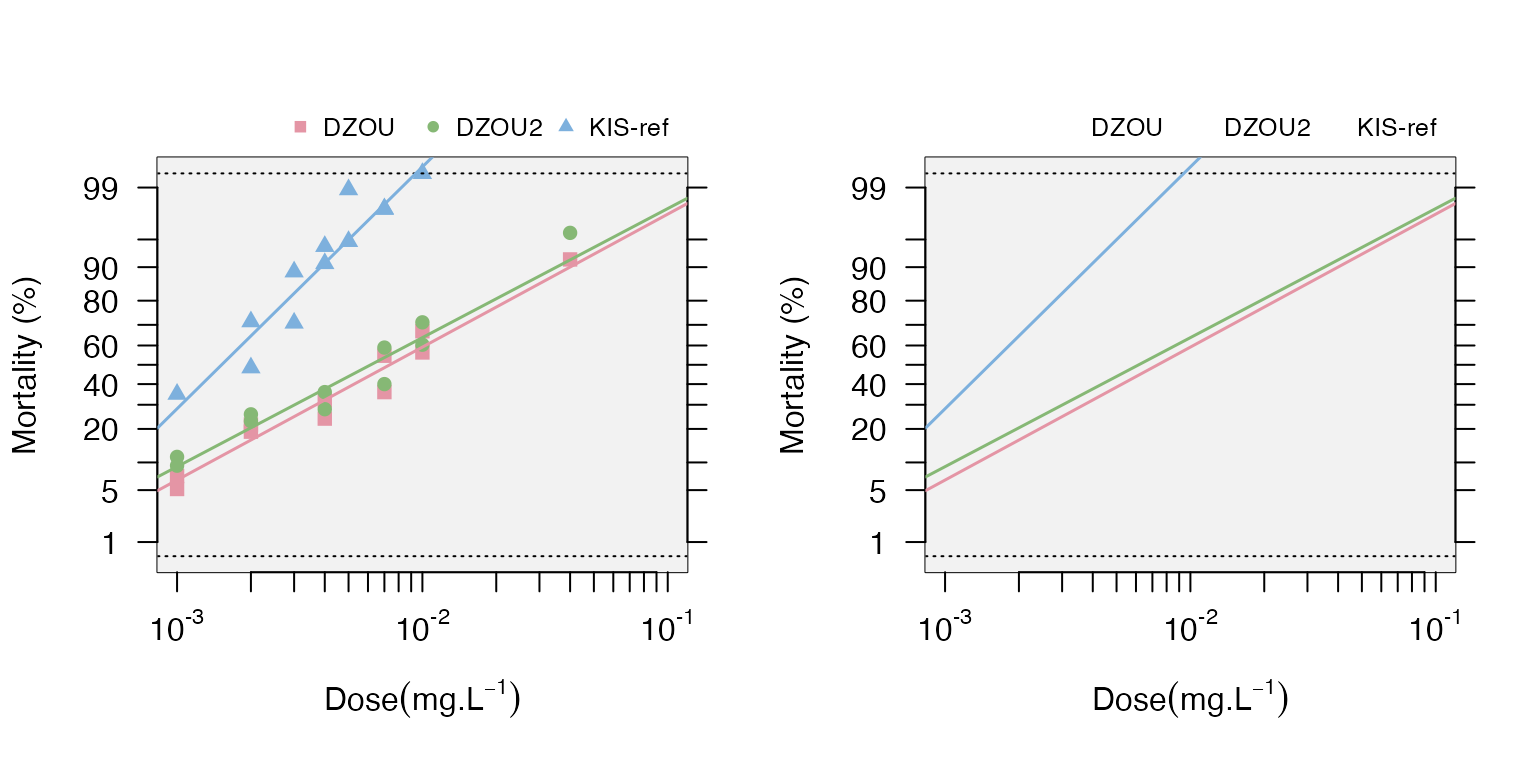
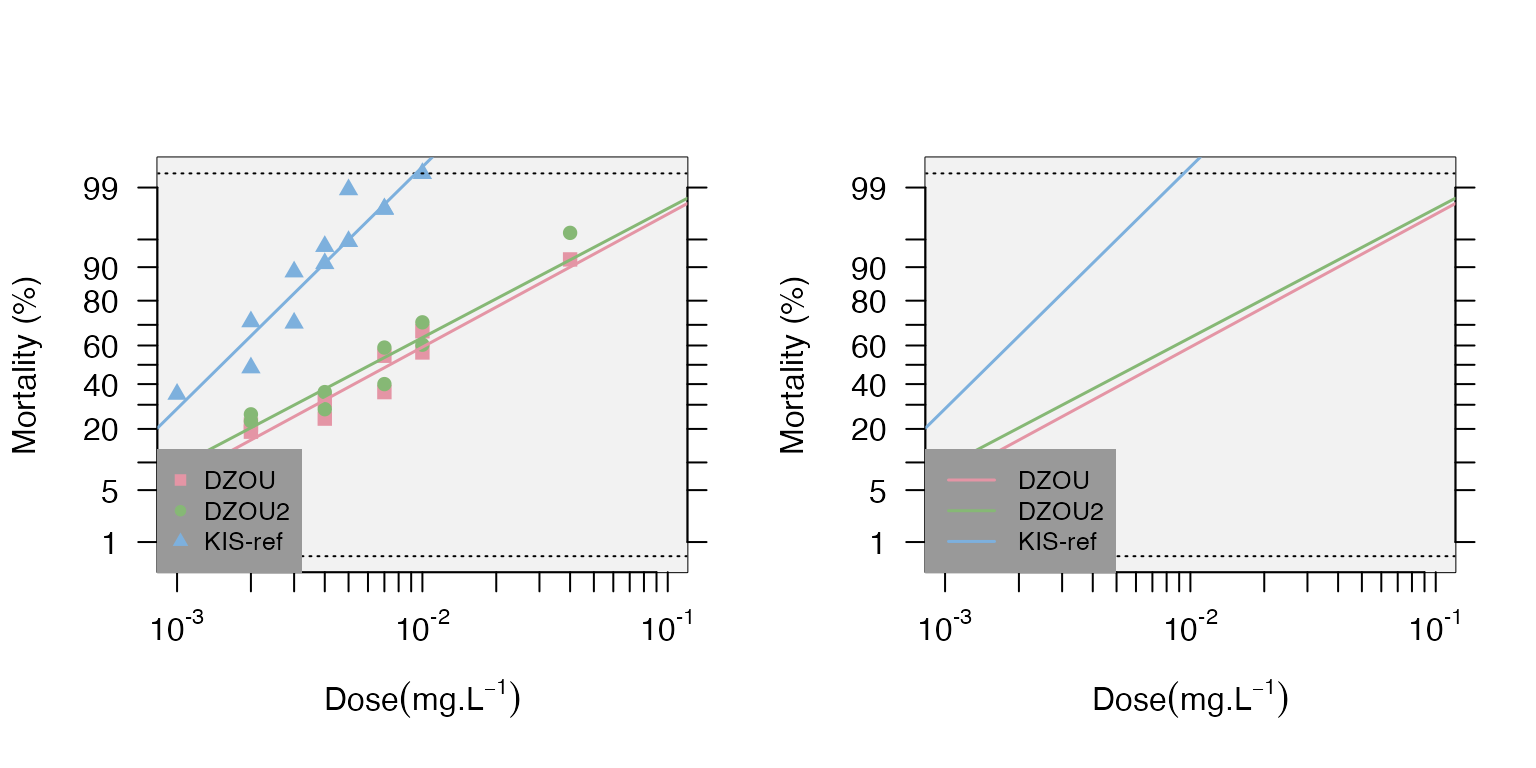
webpage/vignette updated

diff --git a/docs/articles/BioRssay.html b/docs/articles/BioRssay.html
@@ -64,7 +64,7 @@
   <main id="main"><div class="page-header">
       <img src="" class="logo" alt=""><h1>BioRssay</h1>
             
-            <h4 data-toc-skip class="date">27 January, 2022</h4>
+            <h4 data-toc-skip class="date">03 May, 2022</h4>
       
       <small class="dont-index">Source: <a href="https://github.com/milesilab/BioRssay/blob/HEAD/vignettes/BioRssay.Rmd" class="external-link"><code>vignettes/BioRssay.Rmd</code></a></small>
       <div class="d-none name"><code>BioRssay.Rmd</code></div>
@@ -119,7 +119,7 @@
 <span class="co">#&gt; 4  bendiocarb Kisumu 0.00    25    0</span>
 <span class="co">#&gt; 5  bendiocarb Kisumu 0.01    25    0</span>
 <span class="co">#&gt; 6  bendiocarb Kisumu 0.01    25    0</span></code></pre></div>
-<p>NOTE: It is also possible to include a reference strain/population with the suffix “ref” in the strain column (see example 1), or the reference strain can be specified later in the function “resist.ratio” to obtain the resistance ratios for each strain (see below).</p>
+<p>NOTE: It is also possible to include a reference strain/population with the suffix “ref” in the strain column (see example 1), or the reference strain can be specified later in the function <code>resist.ratio</code> to obtain the resistance ratios for each strain (see below).</p>
 </div>
 <div class="section level1">
 <h1 id="analysis">2. <strong>Analysis</strong><a class="anchor" aria-label="anchor" href="#analysis"></a>
@@ -144,7 +144,7 @@
 <span class="fu"><a href="https://rdrr.io/r/base/unique.html" class="external-link">unique</a></span><span class="op">(</span><span class="fu"><a href="https://rdrr.io/r/base/character.html" class="external-link">as.character</a></span><span class="op">(</span><span class="va">exm1</span><span class="op">$</span><span class="va">strain</span><span class="op">)</span><span class="op">)</span>
 <span class="co">#&gt; [1] "KIS-ref" "DZOU"    "DZOU2"</span></code></pre></div>
 <p>This example contains the mortality data of three strains (KIS-ref, DZOU, and DZOU2 ); KIS is used as the reference, as indicated by the “ref” suffix.</p>
-<p>The first step is to check whether the controls have a non-negligible mortality, in which case a correction should be applied to the data, before probit transformation. This is easily achieved with the function “probit.trans”.</p>
+<p>The first step is to check whether the controls have a non-negligible mortality, in which case a correction should be applied to the data, before probit transformation. This is easily achieved with the function <code><a href="../reference/probit.trans.html">probit.trans()</a></code>.</p>
 <div class="sourceCode" id="cb5"><pre class="downlit sourceCode r">
 <code class="sourceCode R"><span class="va">dataT</span><span class="op">&lt;-</span><span class="fu"><a href="../reference/probit.trans.html">probit.trans</a></span><span class="op">(</span><span class="va">exm1</span><span class="op">)</span> <span class="co">#additionally an acceptable threshold for controls' mortality can be set as desired with "conf="; default is 0.05.</span>
 <span class="va">dataT</span><span class="op">$</span><span class="va">convrg</span>
@@ -157,10 +157,10 @@
 <span class="co">#&gt; 5    temephos KIS-ref 0.005    95   90         1 26/01/11 0.9473684  1.6198563</span>
 <span class="co">#&gt; 6    temephos KIS-ref 0.007    99   97         1 26/01/11 0.9797980  2.0495943</span>
 <span class="co">#&gt; 7    temephos KIS-ref 0.010    99   99         1 26/01/11 0.9940000  2.5121443</span></code></pre></div>
-<p>The output of probit.trans is a list of which the first element (convrg) contains the results of Abott’s correction and convergence values.</p>
-<p>However, since the mortality in the controls (dose=0) is below 5% (conf=0.05) in the present example, data$convrg is NULL and thus no correction is applied to the data . The second element of the list dataT is the probid transformed data with two additional columns: <em>mort</em>, the observed mortalities, and <em>probmort</em>, the observed probit-transformed mortalities. This data frame is what we’ll use in the next steps of the analysis.</p>
+<p>The output of probit.trans is a list of which the first element (<code>convrg</code>) contains the results of Abott’s correction and convergence values.</p>
+<p>However, since the mortality in the controls (dose=0) is below 5% (<code>conf=0.05</code>) in the present example, <code>data$convrg</code> is NULL and thus no correction is applied to the data . The second element of the list dataT is the probid transformed data with two additional columns: <em>mort</em>, the observed mortalities, and <em>probmort</em>, the observed probit-transformed mortalities. This data frame is what we’ll use in the next steps of the analysis.</p>
 <p><em>If you set the threshold to conf=0.01 with example 1, you can assess the effects of the Abbot’s correction: all mortalities are slightly reduced to take the base control mortality into account.</em></p>
-<p>The second step is to compute the lethal dose values (25%, 50% and 95%, LD25, LD50 and LD95 respectively) and the corresponding resistance ratios. The function “resist.ratio” allows you to do just that (user also has the option to calculate these values for different LD values). If no reference strain has been specified in the data file (using the suffix “ref” as mentioned above), it can be specified in “ref.strain=”. Otherwise, the strain with the lowest LD50 will be considered as such. By default, the LDs’ 95% confidence intervals are computed (the min and max values are reported); you can adjust this using “conf.level=”.</p>
+<p>The second step is to compute the lethal dose values (25%, 50% and 95%, LD25, LD50 and LD95 respectively) and the corresponding resistance ratios. The function <code>resist.ratio</code> allows you to do just that (user also has the option to calculate these values for different LD values). If no reference strain has been specified in the data file (using the suffix “ref” as mentioned above), it can be specified in <code>ref.strain=</code>. Otherwise, the strain with the lowest LD50 will be considered as such. By default, the LDs’ 95% confidence intervals are computed (the min and max values are reported); you can adjust this using <code>conf.level=</code>.</p>
 <div class="sourceCode" id="cb6"><pre class="downlit sourceCode r">
 <code class="sourceCode R"><span class="va">data</span><span class="op">&lt;-</span><span class="va">dataT</span><span class="op">$</span><span class="va">tr.data</span> <span class="co">#probid transformed data</span>
 <span class="va">RR</span><span class="op">&lt;-</span><span class="fu"><a href="../reference/resist.ratio.html">resist.ratio</a></span><span class="op">(</span><span class="va">data</span><span class="op">)</span>
@@ -179,8 +179,8 @@
 <span class="co">#&gt; KIS-ref  0.7947    1.26 1.00  0.8488    1.18    1  0.8085    1.24</span></code></pre></div>
 <p>Note that we did not specify the reference strain here as it is already labeled in the data</p>
 <p>For each strain, you have first the LD25, LD50 and LD95 and their upper and lower limits (defaults is 95% CI), then the slope and intercept of the regression (with their standard error), the heterogeneity (h) and the g factor (“With almost all good sets of data, g will be substantially smaller than 1.0 and seldom greater than 0.4.” Finney, 1971).</p>
-<p>The result of the chi test (Chi(p)) is then indicated to judge whether the data follow a linear regression: here all the p-values are over 0.05 so the fits are acceptable. Finally the resistance ratios are indicated for LD25, LD50 and LD95 (RR25, RR50 and RR95), as well as their upper and lower limits.</p>
-<p>The third step, when analysing more than one strain, is now to test for difference in dose-mortality responses between strains using the “model.signif” function.</p>
+<p>The result of the chi test (<code>Chi(p)</code>) is then indicated to judge whether the data follow a linear regression: here all the p-values are over 0.05 so the fits are acceptable. Finally the resistance ratios are indicated for LD25, LD50 and LD95 (RR25, RR50 and RR95), as well as their upper and lower limits.</p>
+<p>The third step, when analysing more than one strain, is now to test for difference in dose-mortality responses between strains using the <code><a href="../reference/model.signif.html">model.signif()</a></code> function.</p>
 <div class="sourceCode" id="cb7"><pre class="downlit sourceCode r">
 <code class="sourceCode R"><span class="fu"><a href="../reference/model.signif.html">model.signif</a></span><span class="op">(</span><span class="va">dataT</span><span class="op">$</span><span class="va">tr.data</span><span class="op">)</span>
 <span class="co">#&gt; Analysis of Deviance Table</span>
@@ -195,13 +195,19 @@
 <span class="co">#&gt; complete model is significant against a NULL model </span>
 <span class="co">#&gt;  continueing to pair-wise comparison</span>
 <span class="co">#&gt; $model</span>
-<span class="co">#&gt;   strain1 strain2 model.pval  deviance df bonferroni</span>
-<span class="co">#&gt; 1    DZOU   DZOU2    0.26402   5.52848  2    non-sig</span>
-<span class="co">#&gt; 2    DZOU KIS-ref          0 714.37345  2        sig</span>
-<span class="co">#&gt; 3   DZOU2 KIS-ref          0 603.93126  2        sig</span></code></pre></div>
+<span class="co">#&gt;   strain1 strain2 model.pval bonferroni res.Dv.Null res.Dv.str res.Dv.int</span>
+<span class="co">#&gt; 1    DZOU   DZOU2    0.26402    non-sig          NA         NA         NA</span>
+<span class="co">#&gt; 2    DZOU KIS-ref          0        sig     1150.41     87.892     49.747</span>
+<span class="co">#&gt; 3   DZOU2 KIS-ref          0        sig     1064.79     95.043     53.537</span>
+<span class="co">#&gt;   str.pval str.thr int.pval int.thr</span>
+<span class="co">#&gt; 1       NA      NA       NA      NA</span>
+<span class="co">#&gt; 2        0 0.01250    0.001   0.025</span>
+<span class="co">#&gt; 3        0 0.01667    0.001   0.050</span></code></pre></div>
 <p>As there are 3 strains, the function first tests whether all strains are similar (i.e. equivalent to 1 strain) or not (i.e. at least one is different from others), using a likelihood ratio test. Here, the test is highly significant, some strains are thus different in terms of dose response.</p>
-<p>Pairwise tests are then performed and reported below. Here, the KIS strain is different from DZOU and from DZOU2 strains (model.pval &lt;0.05). DZOU and DZOU2 are not different (model.pval &gt;0.05). The bonferroni column indicates whether the p-values &lt;0.05 remain significant (sig vs non-sig) after correction for multiple testing.</p>
-<p><strong><em>Data Visualization</em></strong> The data and the regression can be plotted with confidence levels using the “mort.plot” function. It is also possible to take the validity of the linearity test into account for the plots using the “test.validity=” option. The probit-transformed mortalities [probit.trans() function] are plotted as a function of the log10 of the doses.</p>
+<p>Pairwise tests are then performed and reported below. Here, the KIS strain is different from DZOU and from DZOU2 strains (model.pval &lt;0.05). DZOU and DZOU2 are not different (model.pval &gt;0.05). The <code>bonferroni</code> column indicates whether the p-values &lt;0.05 remain significant (sig vs non-sig) after correction for multiple testing.</p>
+<p>Further, the function outputs seven more columns with statistical outputs from the model evaluation between strains and strain-dose to a null model. The abbreviations are as follows:<br><code>res.Dv</code> - residual deviance<br><code>thr</code> - threshold for the significance of the pvalue<br><code>str</code> - values for the strains<br><code>int</code> - values for the interaction between the strain and the dose</p>
+<p><em>Note: the pvalues for strain and strain-dose interaction is from a F-test for a bionomial model.</em></p>
+<p><strong><em>Data Visualization</em></strong> The data and the regression can be plotted with confidence levels using the <code><a href="../reference/mort.plot.html">mort.plot()</a></code> function. It is also possible to take the validity of the linearity test into account for the plots using the <code>test.validity=</code> option. The probit-transformed mortalities (<code><a href="../reference/probit.trans.html">probit.trans()</a></code> function) are plotted as a function of the log10 of the doses.</p>
 <div class="sourceCode" id="cb8"><pre class="downlit sourceCode r">
 <code class="sourceCode R"><span class="co">#strains&lt;-levels(data$strain)</span>
 <span class="fu"><a href="https://rdrr.io/r/graphics/par.html" class="external-link">par</a></span><span class="op">(</span>mfrow<span class="op">=</span><span class="fu"><a href="https://rdrr.io/r/base/c.html" class="external-link">c</a></span><span class="op">(</span><span class="fl">1</span>,<span class="fl">2</span><span class="op">)</span><span class="op">)</span> <span class="co"># set plot rows</span>
@@ -215,14 +221,14 @@
 <span class="fu"><a href="https://rdrr.io/r/graphics/par.html" class="external-link">par</a></span><span class="op">(</span>mfrow<span class="op">=</span><span class="fu"><a href="https://rdrr.io/r/base/c.html" class="external-link">c</a></span><span class="op">(</span><span class="fl">1</span>,<span class="fl">2</span><span class="op">)</span><span class="op">)</span>
 <span class="fu"><a href="../reference/mort.plot.html">mort.plot</a></span><span class="op">(</span><span class="va">data</span>,plot.conf<span class="op">=</span><span class="cn">TRUE</span>,test.validity<span class="op">=</span><span class="cn">FALSE</span><span class="op">)</span>
 <span class="fu"><a href="../reference/mort.plot.html">mort.plot</a></span><span class="op">(</span><span class="va">data</span>,plot.conf<span class="op">=</span><span class="cn">TRUE</span>,test.validity<span class="op">=</span><span class="cn">FALSE</span>,pch<span class="op">=</span><span class="cn">NA</span><span class="op">)</span></code></pre></div>
-<p><img src="BioRssay_files/figure-html/unnamed-chunk-8-2.png" width="768"> It is also possible to plot different confidence intervals with the “conf.level=” option (the default is 0.95). It is possible to plot only a subset of strains using the “strains=” option to list the desired strains; if not provided, all the strains will be plotted.</p>
-<p>Note that the plots can be generated directly from the “resist.ratio” function using the “plot=T” option.</p>
+<p><img src="BioRssay_files/figure-html/unnamed-chunk-8-2.png" width="768"> It is also possible to plot different confidence intervals with the <code>conf.level=</code> option (the default is 0.95). It is possible to plot only a subset of strains using the <code>strains=</code> option to list the desired strains; if not provided, all the strains will be plotted.</p>
+<p>Note that the plots can be generated directly from the “resist.ratio” function using the <code>plot=TRUE</code> option.</p>
 </div>
 <div class="section level2">
 <h2 id="example-2">
 <strong>Example 2</strong><a class="anchor" aria-label="anchor" href="#example-2"></a>
 </h2>
-<p>We follow the same workflow (using the plot option in “resist.ratio”). However, there are more than one insecticide tested in this experiment. Therefore, we need to subset the data for each insecticide, and carry out the analysis as before.</p>
+<p>We follow the same workflow (using the plot option in <code><a href="../reference/resist.ratio.html">resist.ratio()</a></code>). However, there are more than one insecticide tested in this experiment. Therefore, we need to subset the data for each insecticide, and carry out the analysis as before.</p>
 <div class="sourceCode" id="cb10"><pre class="downlit sourceCode r">
 <code class="sourceCode R"><span class="fu"><a href="https://rdrr.io/r/utils/head.html" class="external-link">head</a></span><span class="op">(</span><span class="va">test</span><span class="op">)</span>
 <span class="co">#&gt;   insecticide strain dose total dead</span>
@@ -264,7 +270,7 @@
 <span class="co">#&gt; Acerkis  86.0000  442.00  207 103.0000   418.0  241 43.0000    1360</span>
 <span class="co">#&gt; AgRR5   131.0000  666.00  290 144.0000   583.0  277 49.0000    1560</span>
 <span class="co">#&gt; Kisumu    0.3352    2.98    1   0.3849     2.6    1  0.0884      11</span></code></pre></div>
-<p>Note that we have enabled the arguments “plot=” with “plot.conf=” and “test.validity=”. When the log-dose-response is not linear for a strain (Chi-square p-value &lt; 0.05), it will be plotted without forcing linearity as for “Acerkis or AgRR5” strains in this example.</p>
+<p>Note that we have enabled the arguments “plot=” with “plot.conf=” and <code>test.validity=</code>. When the log-dose-response is not linear for a strain (Chi-square p-value &lt; 0.05), it will be plotted without forcing linearity as for “Acerkis or AgRR5” strains in this example.</p>
 <div class="sourceCode" id="cb13"><pre class="downlit sourceCode r">
 <code class="sourceCode R"><span class="co">#To then test the difference in dose-mortality response between the strains</span>
 <span class="va">t.models</span><span class="op">&lt;-</span><span class="fu"><a href="../reference/model.signif.html">model.signif</a></span><span class="op">(</span><span class="va">data.b</span><span class="op">)</span>
@@ -281,10 +287,14 @@
 <span class="co">#&gt;  continueing to pair-wise comparison</span>
 <span class="va">t.models</span>
 <span class="co">#&gt; $model</span>
-<span class="co">#&gt;   strain1 strain2 model.pval   deviance df bonferroni</span>
-<span class="co">#&gt; 1 Acerkis   AgRR5          0   93.37051  2        sig</span>
-<span class="co">#&gt; 2 Acerkis  Kisumu          0 1220.98743  2        sig</span>
-<span class="co">#&gt; 3   AgRR5  Kisumu          0 1433.09904  2        sig</span></code></pre></div>
+<span class="co">#&gt;   strain1 strain2 model.pval bonferroni res.Dv.Null res.Dv.str res.Dv.int</span>
+<span class="co">#&gt; 1 Acerkis   AgRR5          0        sig     1437.16     94.149     76.989</span>
+<span class="co">#&gt; 2 Acerkis  Kisumu          0        sig     1824.23     66.860     59.425</span>
+<span class="co">#&gt; 3   AgRR5  Kisumu          0        sig     1822.46     80.266     79.193</span>
+<span class="co">#&gt;   str.pval str.thr int.pval int.thr</span>
+<span class="co">#&gt; 1        0 0.00833    0.000 0.01667</span>
+<span class="co">#&gt; 2        0 0.01000    0.145 0.02500</span>
+<span class="co">#&gt; 3        0 0.01250    0.594 0.05000</span></code></pre></div>
 <p>Note that at least one of the strains failed the linearity test, the validity of the pairwise dose-mortality response test is, at best, highly questionable. We do not recommend it.</p>
 <p>If many strains are present and only one (few) fails the linearity tests, we do recommend users to remove specific strains from the analyses.</p>
 <p>These steps can be repeated for the different insecticides, either one by one or or in a loop (e.g. “for” loop function).</p>
@@ -310,6 +320,7 @@
 <span class="co">#&gt; KIS     1.23</span>
 <span class="fu"><a href="../reference/model.signif.html">model.signif</a></span><span class="op">(</span><span class="va">trnd</span><span class="op">$</span><span class="va">tr.data</span><span class="op">)</span> <span class="co"># test the models significance for each strain</span>
 <span class="co">#&gt; $model</span>
+<span class="co">#&gt; $model$pairT</span>
 <span class="co">#&gt; Analysis of Deviance Table</span>
 <span class="co">#&gt; </span>
 <span class="co">#&gt; Model 1: mortality ~ log10(data$dose)</span>
@@ -318,7 +329,19 @@
 <span class="co">#&gt; 1        30     703.60                          </span>
 <span class="co">#&gt; 2        28     164.17  2   539.43 &lt; 2.2e-16 ***</span>
 <span class="co">#&gt; ---</span>
-<span class="co">#&gt; Signif. codes:  0 '***' 0.001 '**' 0.01 '*' 0.05 '.' 0.1 ' ' 1</span></code></pre>
+<span class="co">#&gt; Signif. codes:  0 '***' 0.001 '**' 0.01 '*' 0.05 '.' 0.1 ' ' 1</span>
+<span class="co">#&gt; </span>
+<span class="co">#&gt; $model$fullM</span>
+<span class="co">#&gt;                              Df  Deviance Resid. Df Resid. Dev         F</span>
+<span class="co">#&gt; NULL                         NA        NA        31  1839.6531        NA</span>
+<span class="co">#&gt; log10(data$dose)              1 1136.0509        30   703.6021 225.62945</span>
+<span class="co">#&gt; data$strain                   1  404.0593        29   299.5428  80.24964</span>
+<span class="co">#&gt; log10(data$dose):data$strain  1  135.3709        28   164.1719  26.88581</span>
+<span class="co">#&gt;                                    Pr(&gt;F)</span>
+<span class="co">#&gt; NULL                                   NA</span>
+<span class="co">#&gt; log10(data$dose)             6.302655e-15</span>
+<span class="co">#&gt; data$strain                  1.029903e-09</span>
+<span class="co">#&gt; log10(data$dose):data$strain 1.671886e-05</span></code></pre>
 </div>
 </div>
 <div class="section level1">

diff --git a/docs/reference/resist.ratio.html b/docs/reference/resist.ratio.html
@@ -1,5 +1,5 @@
 <!DOCTYPE html>
-<!-- Generated by pkgdown: do not edit by hand --><html lang="en"><head><meta http-equiv="Content-Type" content="text/html; charset=UTF-8"><meta charset="utf-8"><meta http-equiv="X-UA-Compatible" content="IE=edge"><meta name="viewport" content="width=device-width, initial-scale=1, shrink-to-fit=no"><meta name="description" content="Using a generalised linear model (GLM, logit link function), this function computes the lethal doses for 25%, 50% and 95% (unless otherwise provided) of the population (LD25, LD50 and LD95, resp.), and their confidence intervals (LDmax and LDmin, 0.95 by default). See details for more info."><title>Calculate lethal dosage, resistance ratios, and regression coefficients and tests for linearity — resist.ratio • BioRssay</title><script src="../deps/jquery-3.6.0/jquery-3.6.0.min.js"></script><meta name="viewport" content="width=device-width, initial-scale=1, shrink-to-fit=no"><link href="../deps/bootstrap-5.1.0/bootstrap.min.css" rel="stylesheet"><script src="../deps/bootstrap-5.1.0/bootstrap.bundle.min.js"></script><!-- Font Awesome icons --><link rel="stylesheet" href="https://cdnjs.cloudflare.com/ajax/libs/font-awesome/5.12.1/css/all.min.css" integrity="sha256-mmgLkCYLUQbXn0B1SRqzHar6dCnv9oZFPEC1g1cwlkk=" crossorigin="anonymous"><link rel="stylesheet" href="https://cdnjs.cloudflare.com/ajax/libs/font-awesome/5.12.1/css/v4-shims.min.css" integrity="sha256-wZjR52fzng1pJHwx4aV2AO3yyTOXrcDW7jBpJtTwVxw=" crossorigin="anonymous"><!-- bootstrap-toc --><script src="https://cdn.rawgit.com/afeld/bootstrap-toc/v1.0.1/dist/bootstrap-toc.min.js"></script><!-- headroom.js --><script src="https://cdnjs.cloudflare.com/ajax/libs/headroom/0.11.0/headroom.min.js" integrity="sha256-AsUX4SJE1+yuDu5+mAVzJbuYNPHj/WroHuZ8Ir/CkE0=" crossorigin="anonymous"></script><script src="https://cdnjs.cloudflare.com/ajax/libs/headroom/0.11.0/jQuery.headroom.min.js" integrity="sha256-ZX/yNShbjqsohH1k95liqY9Gd8uOiE1S4vZc+9KQ1K4=" crossorigin="anonymous"></script><!-- clipboard.js --><script src="https://cdnjs.cloudflare.com/ajax/libs/clipboard.js/2.0.6/clipboard.min.js" integrity="sha256-inc5kl9MA1hkeYUt+EC3BhlIgyp/2jDIyBLS6k3UxPI=" crossorigin="anonymous"></script><!-- search --><script src="https://cdnjs.cloudflare.com/ajax/libs/fuse.js/6.4.6/fuse.js" integrity="sha512-zv6Ywkjyktsohkbp9bb45V6tEMoWhzFzXis+LrMehmJZZSys19Yxf1dopHx7WzIKxr5tK2dVcYmaCk2uqdjF4A==" crossorigin="anonymous"></script><script src="https://cdnjs.cloudflare.com/ajax/libs/autocomplete.js/0.38.0/autocomplete.jquery.min.js" integrity="sha512-GU9ayf+66Xx2TmpxqJpliWbT5PiGYxpaG8rfnBEk1LL8l1KGkRShhngwdXK1UgqhAzWpZHSiYPc09/NwDQIGyg==" crossorigin="anonymous"></script><script src="https://cdnjs.cloudflare.com/ajax/libs/mark.js/8.11.1/mark.min.js" integrity="sha512-5CYOlHXGh6QpOFA/TeTylKLWfB3ftPsde7AnmhuitiTX4K5SqCLBeKro6sPS8ilsz1Q4NRx3v8Ko2IBiszzdww==" crossorigin="anonymous"></script><!-- pkgdown --><script src="../pkgdown.js"></script><meta property="og:title" content="Calculate lethal dosage, resistance ratios, and regression coefficients and tests for linearity — resist.ratio"><meta property="og:description" content="Using a generalised linear model (GLM, logit link function), this function computes the lethal doses for 25%, 50% and 95% (unless otherwise provided) of the population (LD25, LD50 and LD95, resp.), and their confidence intervals (LDmax and LDmin, 0.95 by default). See details for more info."><!-- mathjax --><script src="https://cdnjs.cloudflare.com/ajax/libs/mathjax/2.7.5/MathJax.js" integrity="sha256-nvJJv9wWKEm88qvoQl9ekL2J+k/RWIsaSScxxlsrv8k=" crossorigin="anonymous"></script><script src="https://cdnjs.cloudflare.com/ajax/libs/mathjax/2.7.5/config/TeX-AMS-MML_HTMLorMML.js" integrity="sha256-84DKXVJXs0/F8OTMzX4UR909+jtl4G7SPypPavF+GfA=" crossorigin="anonymous"></script><!--[if lt IE 9]>
+<!-- Generated by pkgdown: do not edit by hand --><html lang="en"><head><meta http-equiv="Content-Type" content="text/html; charset=UTF-8"><meta charset="utf-8"><meta http-equiv="X-UA-Compatible" content="IE=edge"><meta name="viewport" content="width=device-width, initial-scale=1, shrink-to-fit=no"><meta name="description" content="Using a generalised linear model (GLM, logit link function), this function computes the lethal doses for 25"><title>Calculate lethal dosage, resistance ratios, and regression coefficients and tests for linearity — resist.ratio • BioRssay</title><script src="../deps/jquery-3.6.0/jquery-3.6.0.min.js"></script><meta name="viewport" content="width=device-width, initial-scale=1, shrink-to-fit=no"><link href="../deps/bootstrap-5.1.0/bootstrap.min.css" rel="stylesheet"><script src="../deps/bootstrap-5.1.0/bootstrap.bundle.min.js"></script><!-- Font Awesome icons --><link rel="stylesheet" href="https://cdnjs.cloudflare.com/ajax/libs/font-awesome/5.12.1/css/all.min.css" integrity="sha256-mmgLkCYLUQbXn0B1SRqzHar6dCnv9oZFPEC1g1cwlkk=" crossorigin="anonymous"><link rel="stylesheet" href="https://cdnjs.cloudflare.com/ajax/libs/font-awesome/5.12.1/css/v4-shims.min.css" integrity="sha256-wZjR52fzng1pJHwx4aV2AO3yyTOXrcDW7jBpJtTwVxw=" crossorigin="anonymous"><!-- bootstrap-toc --><script src="https://cdn.rawgit.com/afeld/bootstrap-toc/v1.0.1/dist/bootstrap-toc.min.js"></script><!-- headroom.js --><script src="https://cdnjs.cloudflare.com/ajax/libs/headroom/0.11.0/headroom.min.js" integrity="sha256-AsUX4SJE1+yuDu5+mAVzJbuYNPHj/WroHuZ8Ir/CkE0=" crossorigin="anonymous"></script><script src="https://cdnjs.cloudflare.com/ajax/libs/headroom/0.11.0/jQuery.headroom.min.js" integrity="sha256-ZX/yNShbjqsohH1k95liqY9Gd8uOiE1S4vZc+9KQ1K4=" crossorigin="anonymous"></script><!-- clipboard.js --><script src="https://cdnjs.cloudflare.com/ajax/libs/clipboard.js/2.0.6/clipboard.min.js" integrity="sha256-inc5kl9MA1hkeYUt+EC3BhlIgyp/2jDIyBLS6k3UxPI=" crossorigin="anonymous"></script><!-- search --><script src="https://cdnjs.cloudflare.com/ajax/libs/fuse.js/6.4.6/fuse.js" integrity="sha512-zv6Ywkjyktsohkbp9bb45V6tEMoWhzFzXis+LrMehmJZZSys19Yxf1dopHx7WzIKxr5tK2dVcYmaCk2uqdjF4A==" crossorigin="anonymous"></script><script src="https://cdnjs.cloudflare.com/ajax/libs/autocomplete.js/0.38.0/autocomplete.jquery.min.js" integrity="sha512-GU9ayf+66Xx2TmpxqJpliWbT5PiGYxpaG8rfnBEk1LL8l1KGkRShhngwdXK1UgqhAzWpZHSiYPc09/NwDQIGyg==" crossorigin="anonymous"></script><script src="https://cdnjs.cloudflare.com/ajax/libs/mark.js/8.11.1/mark.min.js" integrity="sha512-5CYOlHXGh6QpOFA/TeTylKLWfB3ftPsde7AnmhuitiTX4K5SqCLBeKro6sPS8ilsz1Q4NRx3v8Ko2IBiszzdww==" crossorigin="anonymous"></script><!-- pkgdown --><script src="../pkgdown.js"></script><meta property="og:title" content="Calculate lethal dosage, resistance ratios, and regression coefficients and tests for linearity — resist.ratio"><meta property="og:description" content="Using a generalised linear model (GLM, logit link function), this function computes the lethal doses for 25"><!-- mathjax --><script src="https://cdnjs.cloudflare.com/ajax/libs/mathjax/2.7.5/MathJax.js" integrity="sha256-nvJJv9wWKEm88qvoQl9ekL2J+k/RWIsaSScxxlsrv8k=" crossorigin="anonymous"></script><script src="https://cdnjs.cloudflare.com/ajax/libs/mathjax/2.7.5/config/TeX-AMS-MML_HTMLorMML.js" integrity="sha256-84DKXVJXs0/F8OTMzX4UR909+jtl4G7SPypPavF+GfA=" crossorigin="anonymous"></script><!--[if lt IE 9]>
 <script src="https://oss.maxcdn.com/html5shiv/3.7.3/html5shiv.min.js"></script>
 <script src="https://oss.maxcdn.com/respond/1.4.2/respond.min.js"></script>
 <![endif]--></head><body>
@@ -46,7 +46,7 @@
     </div>
 
     <div class="ref-description section level2">
-    <p>Using a generalised linear model (GLM, logit link function), this function computes the lethal doses for 25%, 50% and 95% (unless otherwise provided) of the population (LD25, LD50 and LD95, resp.), and their confidence intervals (LDmax and LDmin, 0.95 by default). See details for more info.</p>
+    <p>Using a generalised linear model (GLM, logit link function), this function computes the lethal doses for 25<!-- %, 50% and 95% (unless otherwise provided) of the population (LD25, LD50 and LD95, resp.), and their confidence intervals (LDmax and LDmin, 0.95 by default). See details for more info. --></p>
     </div>
 
     <div class="section level2">
@@ -89,7 +89,7 @@
     <div class="section level2">
     <h2 id="details">Details<a class="anchor" aria-label="anchor" href="#details"></a></h2>
     <p>If a name is provided in ref.strain=, it will be used as the reference to compute the resistance ratios (RR). Alternatively, the function will look for a strain with the suffix "-ref" in the dataset. If this returns NULL, the strain with the lowest LD50 will be considered as reference.</p>
-<p>In addition to LD values, the function in a nutshell uses a script modified from Johnson et al (2013), which allows taking the g factor into account ("With almost all good sets of data, g will be substantially smaller than 1.0 and seldom greater than 0.4." Finney, 1971) and the heterogeneity (h) of the data (Finney, 1971) to calculate the confidence intervals (i.e. a larger heterogeneity will increase the confidence intervals). It also computes the corresponding resistance ratios (RR), i.e. the ratios between a given strain and the strain with the lower LD50 and LD95, respectively for RR50 and RR95 (usually, it is the susceptible reference strain), with their 95% confidence intervals (RRmin and RRmax), calculated according to Robertson and Preisler (1992). Finally, it also computes the coefficients (slope and intercept, with their standard error) of the linear regressions) and tests for the linearity of the dose-mortality response using a chi-square test (Chi(p)) between the observed dead numbers (data) and the dead numbers predicted by the regression (the test is significant if the data is not linear, e.g. mixed populations).</p>
+<p>In addition to LD values, the function in a nutshell uses a script modified from Johnson et al (2013), which allows taking the g factor into account ("With almost all good sets of data, g will be substantially smaller than 1.0 and seldom greater than 0.4." Finney, 1971) and the heterogeneity (h) of the data (Finney, 1971) to calculate the confidence intervals (i.e. a larger heterogeneity will increase the confidence intervals). It also computes the corresponding resistance ratios (RR), i.e. the ratios between a given strain and the strain with the lower LD50 and LD95, respectively for RR50 and RR95 (usually, it is the susceptible reference strain), with their 95<!-- % confidence intervals (RRmin and RRmax), calculated according to Robertson and Preisler (1992). Finally, it also computes the coefficients (slope and intercept, with their standard error) of the linear regressions) and tests for the linearity of the dose-mortality response using a chi-square test (Chi(p)) between the observed dead numbers (data) and the dead numbers predicted by the regression (the test is significant if the data is not linear, e.g. mixed populations). --></p>
     </div>
     <div class="section level2">
     <h2 id="references">References<a class="anchor" aria-label="anchor" href="#references"></a></h2>

diff --git a/docs/reference/model.signif.html b/docs/reference/model.signif.html
@@ -92,10 +92,14 @@ If there are more than two strains, pairwise tests are computed, and p-values of
 <span class="r-msg co"><span class="r-pr">#&gt;</span> complete model is significant against a NULL model </span>
 <span class="r-msg co"><span class="r-pr">#&gt;</span>  continueing to pair-wise comparison</span>
 <span class="r-out co"><span class="r-pr">#&gt;</span> $model</span>
-<span class="r-out co"><span class="r-pr">#&gt;</span>   strain1 strain2 model.pval  deviance df bonferroni</span>
-<span class="r-out co"><span class="r-pr">#&gt;</span> 1    DZOU   DZOU2    0.26402   5.52848  2    non-sig</span>
-<span class="r-out co"><span class="r-pr">#&gt;</span> 2    DZOU KIS-ref          0 714.37345  2        sig</span>
-<span class="r-out co"><span class="r-pr">#&gt;</span> 3   DZOU2 KIS-ref          0 603.93126  2        sig</span>
+<span class="r-out co"><span class="r-pr">#&gt;</span>   strain1 strain2 model.pval bonferroni res.Dv.Null res.Dv.str res.Dv.int</span>
+<span class="r-out co"><span class="r-pr">#&gt;</span> 1    DZOU   DZOU2    0.26402    non-sig          NA         NA         NA</span>
+<span class="r-out co"><span class="r-pr">#&gt;</span> 2    DZOU KIS-ref          0        sig     1150.41     87.892     49.747</span>
+<span class="r-out co"><span class="r-pr">#&gt;</span> 3   DZOU2 KIS-ref          0        sig     1064.79     95.043     53.537</span>
+<span class="r-out co"><span class="r-pr">#&gt;</span>   str.pval str.thr int.pval int.thr</span>
+<span class="r-out co"><span class="r-pr">#&gt;</span> 1       NA      NA       NA      NA</span>
+<span class="r-out co"><span class="r-pr">#&gt;</span> 2        0 0.01250    0.001   0.025</span>
+<span class="r-out co"><span class="r-pr">#&gt;</span> 3        0 0.01667    0.001   0.050</span>
 <span class="r-out co"><span class="r-pr">#&gt;</span> </span>
 <span class="r-in"></span>
 </code></pre></div>

diff --git a/docs/authors.html b/docs/authors.html
@@ -62,17 +62,22 @@
 
     <div class="section level2 citation">
       <h2 id="citation">Citation</h2>
-      <p><small class="dont-index">Source: <a href="https://github.com/milesilab/BioRssay/blob/HEAD/DESCRIPTION" class="external-link"><code>DESCRIPTION</code></a></small></p>
+      <p><small class="dont-index">Source: <a href="https://github.com/milesilab/BioRssay/blob/HEAD/inst/CITATION" class="external-link"><code>inst/CITATION</code></a></small></p>
 
-      <p>Karunarathne P, Milesi P, Labbé P (2022).
-<em>BioRssay: Analyze Bioassays and Probit Graphs</em>.
-https://github.com/milesilab/BioRssay#readme,. 
+      <p>Karunarathne, Piyal, Pocquet, Nicolas, Labb'e, Pierrick, Milesi, Pascal (2022).
+“BioRssay: an R package for analyses of bioassays and probit graphs.”
+<em>Parasites &amp; Vectors</em>, <b>15</b>(1), 1-6.
+<a href="https://doi.org/10.1186/s13071-021-05146-x" class="external-link">https://doi.org/10.1186/s13071-021-05146-x</a>. 
 </p>
-      <pre>@Manual{,
-  title = {BioRssay: Analyze Bioassays and Probit Graphs},
-  author = {Piyal Karunarathne and Pascal Milesi and Pierrick Labbé},
+      <pre>@Article{,
+  title = {BioRssay: an R package for analyses of bioassays and probit graphs},
+  author = {{Karunarathne} and {Piyal} and {Pocquet} and {Nicolas} and {Labb{'e}} and {Pierrick} and {Milesi} and {Pascal}},
+  journal = {Parasites &amp; Vectors},
   year = {2022},
-  note = {https://github.com/milesilab/BioRssay#readme,},
+  volume = {15},
+  number = {1},
+  pages = {1-6},
+  url = {https://doi.org/10.1186/s13071-021-05146-x},
 }</pre>
     </div>
   </main><aside class="col-md-3"><nav id="toc"><h2>On this page</h2>

diff --git a/docs/reference/mort.plot.html b/docs/reference/mort.plot.html
@@ -58,6 +58,8 @@
   conf.level <span class="op">=</span> <span class="fl">0.95</span>,
   LD.value <span class="op">=</span> <span class="fu"><a href="https://rdrr.io/r/base/c.html" class="external-link">c</a></span><span class="op">(</span><span class="fl">25</span>, <span class="fl">50</span>, <span class="fl">95</span><span class="op">)</span>,
   test.validity <span class="op">=</span> <span class="cn">TRUE</span>,
+  leg.pos <span class="op">=</span> <span class="st">"bottomleft"</span>,
+  leg.cex <span class="op">=</span> <span class="fl">0.8</span>,
   <span class="va">...</span>
 <span class="op">)</span></code></pre></div>
     </div>
@@ -76,6 +78,10 @@
 <dd><p>numerical. Level of lethal dose to be tested. default=c(25,50,95)</p></dd>
 <dt>test.validity</dt>
 <dd><p>logical. When TRUE (default), if a strain mortality-dose response fails the chi-square test for linearity in the resist.ratio() function, no regression will be plotted, only the observed data.</p></dd>
+<dt>leg.pos</dt>
+<dd><p>character. Positioning of the legend as in <code><a href="https://rdrr.io/r/graphics/legend.html" class="external-link">legend</a></code>. default <code>bottomleft</code></p></dd>
+<dt>leg.cex</dt>
+<dd><p>numeric. size of the legend</p></dd>
 <dt>...</dt>
 <dd><p>parameters to be passed on to graphics for the plot (e.g. col, pch)</p></dd>
 </dl></div>
